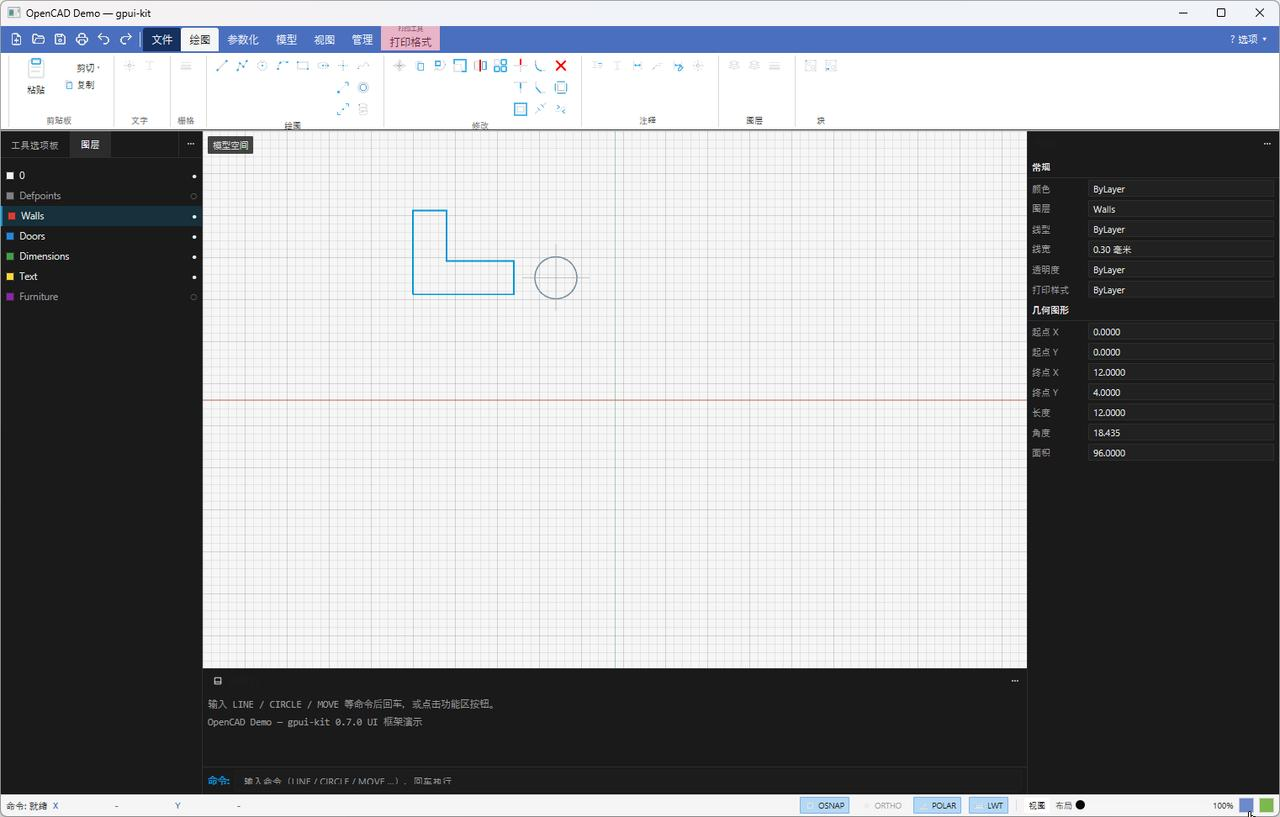
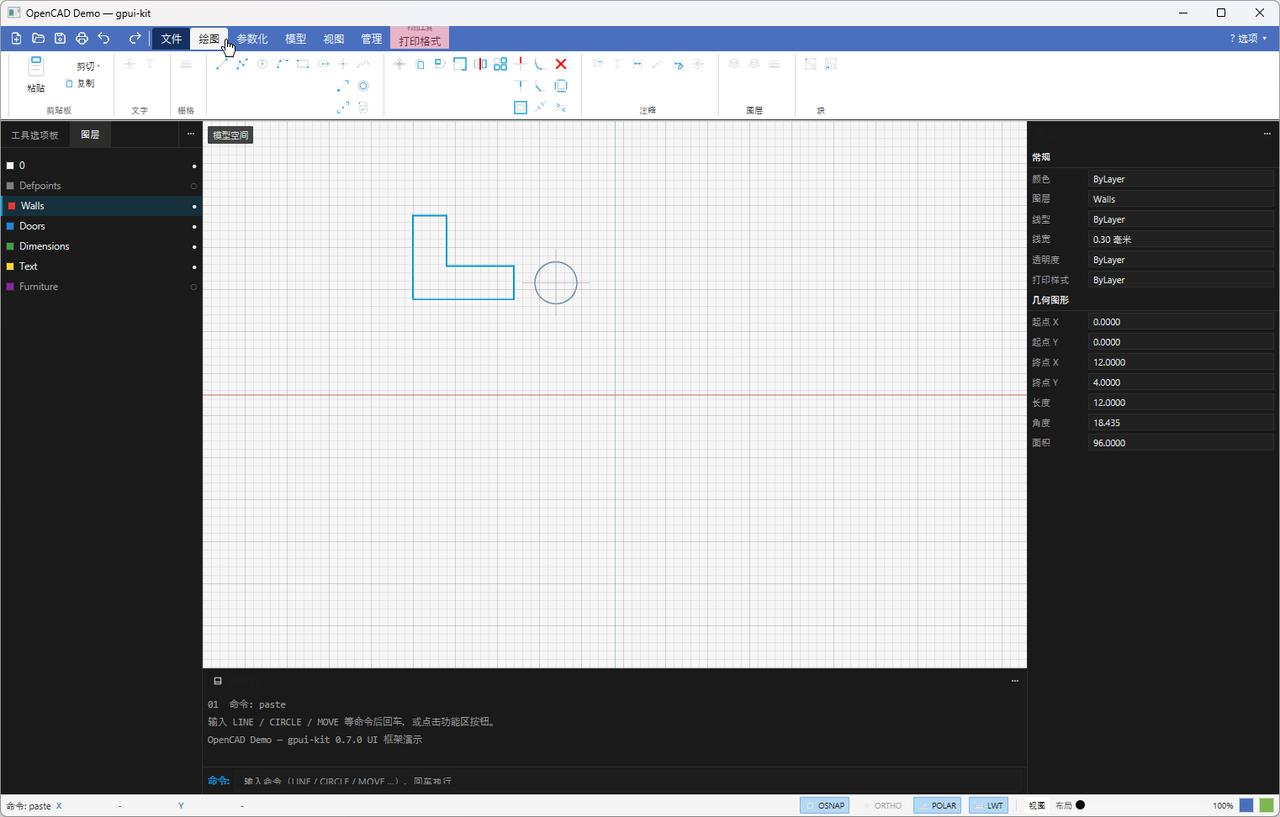
gpui 版对齐 Office 尺寸规格与行为（双击折叠/上下文标签/垂直居中）
- ribbon_data::metrics 模块：沉淀 Office Fluent 尺寸规格供双前端复用
- 标签双击折叠/展开功能区（ClickEvent::click_count）
- 上下文标签随贴住工具出现/消失
- 组内容垂直居中
- docs §9 尺寸/行为规格表

diff --git a/src/ribbon.rs b/src/ribbon.rs
@@ -37,8 +37,8 @@ pub use cad_demo::ribbon_data::*;
 // RibbonBar 视图
 // ---------------------------------------------------------------------------
 
-const TAB_STRIP_H: f32 = 32.0;
-const CONTENT_H: f32 = 92.0;
+const TAB_STRIP_H: f32 = 30.0;
+const CONTENT_H: f32 = 82.0;
 
 pub struct RibbonBar {
     pub active: usize,
@@ -194,33 +194,41 @@ impl RibbonBar {
                         .hover(move |s| s.bg(ot.title_bg))
                 })
                 .child(name)
-                .on_click(cx.listener(move |this, _: &ClickEvent, _, cx| {
+                .on_click(cx.listener(move |this, event: &ClickEvent, _, cx| {
                     this.active = ix;
+                    // Office 经典行为：双击标签折叠/展开功能区
+                    if event.click_count() >= 2 {
+                        this.collapsed = !this.collapsed;
+                    }
                     cx.notify();
                 }))
         }));
 
-        // 上下文标签：第二主题色、位置更高（demo 常显；真实应用随对象选择出现）
-        strip = strip.child(
-            div()
-                .id("tab-contextual")
-                .mt(px(-6.0))
-                .h(px(TAB_STRIP_H))
-                .px_3()
-                .flex()
-                .flex_col()
-                .items_center()
-                .justify_center()
-                .rounded_t_sm()
-                .bg(ot.ctx_bg)
-                .cursor_pointer()
-                .child(
-                    div().text_size(px(7.5)).text_color(ot.ctx_text).child("打印工具"),
-                )
-                .child(
-                    div().text_size(px(12.5)).text_color(ot.ctx_text).child("打印格式"),
-                ),
-        );
+        // 上下文标签：第二主题色、位置更高；仅当有贴住的绘图工具时出现
+        // （对应 Office 选中图片时出现 Picture Tools）
+        let tool_stuck = snap.active_tool.is_some();
+        strip = strip.when(tool_stuck, |strip| {
+            strip.child(
+                div()
+                    .id("tab-contextual")
+                    .mt(px(-6.0))
+                    .h(px(TAB_STRIP_H))
+                    .px_3()
+                    .flex()
+                    .flex_col()
+                    .items_center()
+                    .justify_center()
+                    .rounded_t_sm()
+                    .bg(ot.ctx_bg)
+                    .cursor_pointer()
+                    .child(
+                        div().text_size(px(7.5)).text_color(ot.ctx_text).child("打印工具"),
+                    )
+                    .child(
+                        div().text_size(px(12.5)).text_color(ot.ctx_text).child("打印格式"),
+                    ),
+            )
+        });
 
         strip = strip.child(div().flex_1());
 

diff --git a/src/ribbon_data.rs b/src/ribbon_data.rs
@@ -681,3 +681,31 @@ pub fn decide_levels(widths: &[GroupWidths], max_w: f32) -> Vec<Level> {
     levels
 }
 
+
+/// Office Fluent 外观尺寸规格（px @96dpi，见 docs/office-ribbon-style-notes.md §9）。
+pub mod metrics {
+    /// 标签行高。
+    pub const TAB_STRIP_H: f32 = 30.0;
+    /// 工具内容区高（组名除外）。
+    pub const TOOL_AREA_H: f32 = 66.0;
+    /// 组名行高。
+    pub const GROUP_LABEL_H: f32 = 16.0;
+    /// 大按钮宽。
+    pub const LARGE_W: f32 = 56.0;
+    /// 大按钮高。
+    pub const LARGE_H: f32 = 62.0;
+    /// 大按钮图标。
+    pub const LARGE_ICON: f32 = 30.0;
+    /// 横排小按钮高。
+    pub const SMALL_H: f32 = 22.0;
+    /// 小图标尺寸。
+    pub const SMALL_ICON: f32 = 16.0;
+    /// 图标列宽。
+    pub const MINI_W: f32 = 26.0;
+    /// 组合框高。
+    pub const COMBO_H: f32 = 20.0;
+    /// 组水平内边距。
+    pub const GROUP_PAD_X: f32 = 6.0;
+    /// 分隔线上下缩进。
+    pub const SEP_INSET: f32 = 4.0;
+}

diff --git a/docs/office-ribbon-style-notes.md b/docs/office-ribbon-style-notes.md
@@ -117,3 +117,61 @@
 - [x] 状态栏：状态文字 + 视图切换 + 缩放滑块
 - [ ] 主题切换按钮（蓝/绿）——状态栏右侧
 - [ ] 真实的上下文出现/消失（demo 常显）
+
+
+---
+
+## 9. 外观尺寸规格（px @96dpi，从截图实测 + Office Fluent 公开规格）
+
+### 9.1 纵向结构
+| 项 | 高度 | 备注 |
+|---|---|---|
+| 标签行（Tab strip） | 30 | 激活标签与工具区无缝衔接（白底相连） |
+| 工具内容区 | 62~66 | 图标 30~32 的行；行内可 1~3 行流式 |
+| 组名行 | 16 | 9~10px 灰字居中 + 启动器 |
+| **Ribbon 总高** | **~108** | 30 + 62 + 16 |
+| 组间分隔线 | 工具内容区高 - 8（上下各缩 4） | 1px 浅灰 |
+
+### 9.2 横向尺寸
+| 项 | 尺寸 |
+|---|---|
+| 大按钮 | 56 × 62（图标 30~32 居中，标签 10.5px 贴底） |
+| 大分裂按钮 | 同大按钮；▾ 居中在底部 12px 条内 |
+| 横排小按钮（Cut▾ 样） | 高 22；图标 16 + 文字 11 + 右侧 6px ▾；宽随内容 |
+| 小图标按钮 | 23 × 23（图标 16） |
+| 组合框（字体名） | 高 20；宽 90~96 |
+| 组合框（字号） | 高 20；宽 40~44 |
+| 字符按钮（B/I/U） | 20 × 20 |
+| 数值微调框 | 高 18；宽 40~46；标签左置 |
+| 组水平内边距 | 左右各 6 |
+| 组间距（含分隔线） | ~16 |
+
+### 9.3 行为规格
+| 行为 | 规则 |
+|---|---|
+| 标签单击 | 切换标签 |
+| 标签**双击** | 折叠/展开整个功能区（Office 经典行为） |
+| 上下文标签 | 依对象选择出现/消失；出现时位于普通标签右侧、位置更高 |
+| 组内容 | 在组内**垂直居中**（非顶对齐） |
+| 小工具流 | 行内放不下→折行（最多 3 行），折行以列为单位 |
+| 分裂按钮 | 面显示最后用过的变体；菜单勾选当前项；菜单锚定按钮下方左对齐 |
+| 悬停 | 圆角 3px 浅色填充 + 1px 主题色边框（仅 hover 时出现边框） |
+| 组合框 | 可编辑（Office 的字体/字号是输入框），▾ 只负责列表 |
+| 富 tooltip | 标题 + 描述 + 命令行（两段式） |
+| KeyTips | Alt 唤出按键提示（未实现，备忘） |
+| 缩放 | 状态栏滑块 10%~500%，双击复位 100% |
+
+### 9.4 本 demo 与规格的差异（2026-09-29 已全部落地）
+| 项 | 改造前 | 改造后 |
+|---|---|---|
+| 标签行高 | 32 | 30 |
+| 内容区高 | 92 | 82 |
+| 大按钮 | 60×68 | 56×66 |
+| 标签双击折叠 | 无 | ✓ 双击标签折叠/展开功能区 |
+| 上下文标签常显 | ✓ | 依贴住工具出现/消失（active_tool） |
+| 组内容对齐 | 顶对齐 | 垂直居中（items_center） |
+
+尺寸常量已沉淀为 `ribbon_data::metrics` 模块（TAB_STRIP_H=30 /
+TOOL_AREA_H=66 / GROUP_LABEL_H=16 / LARGE_W=56 / LARGE_H=62 /
+LARGE_ICON=30 / SMALL_H=22 / SMALL_ICON=16 / COMBO_H=20 /
+GROUP_PAD_X=6 / SEP_INSET=4），egui 版可直接复用。
